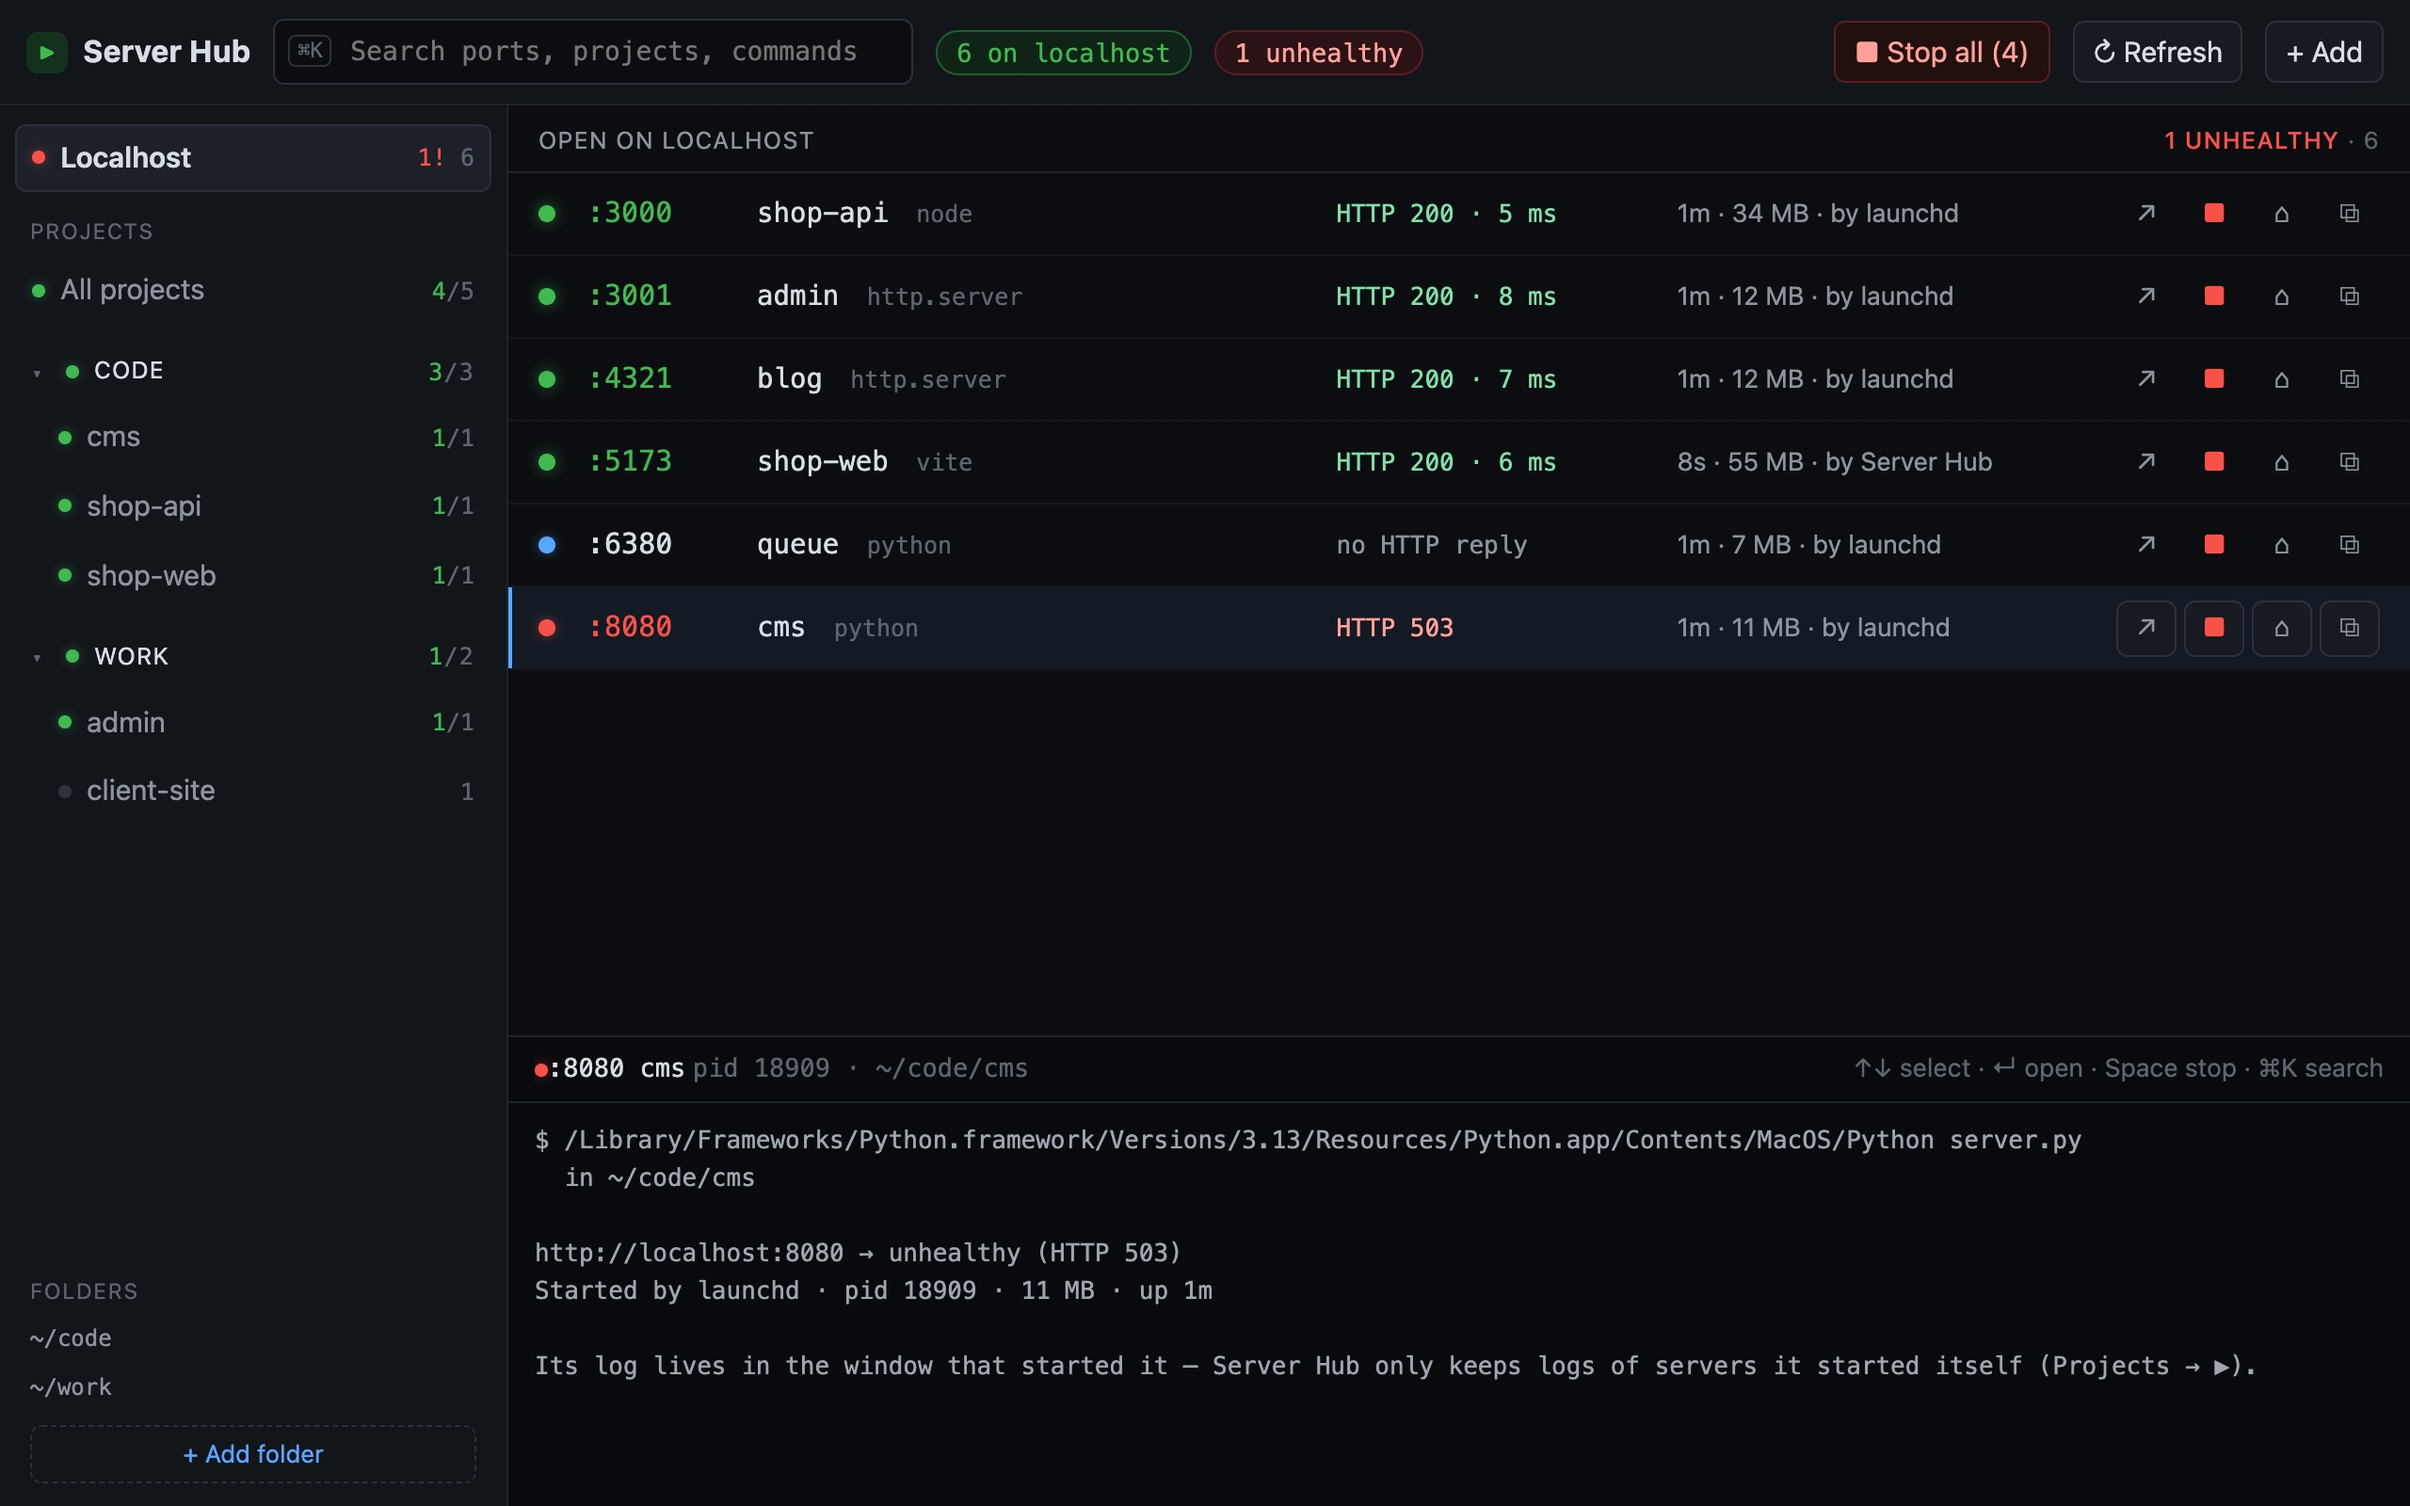
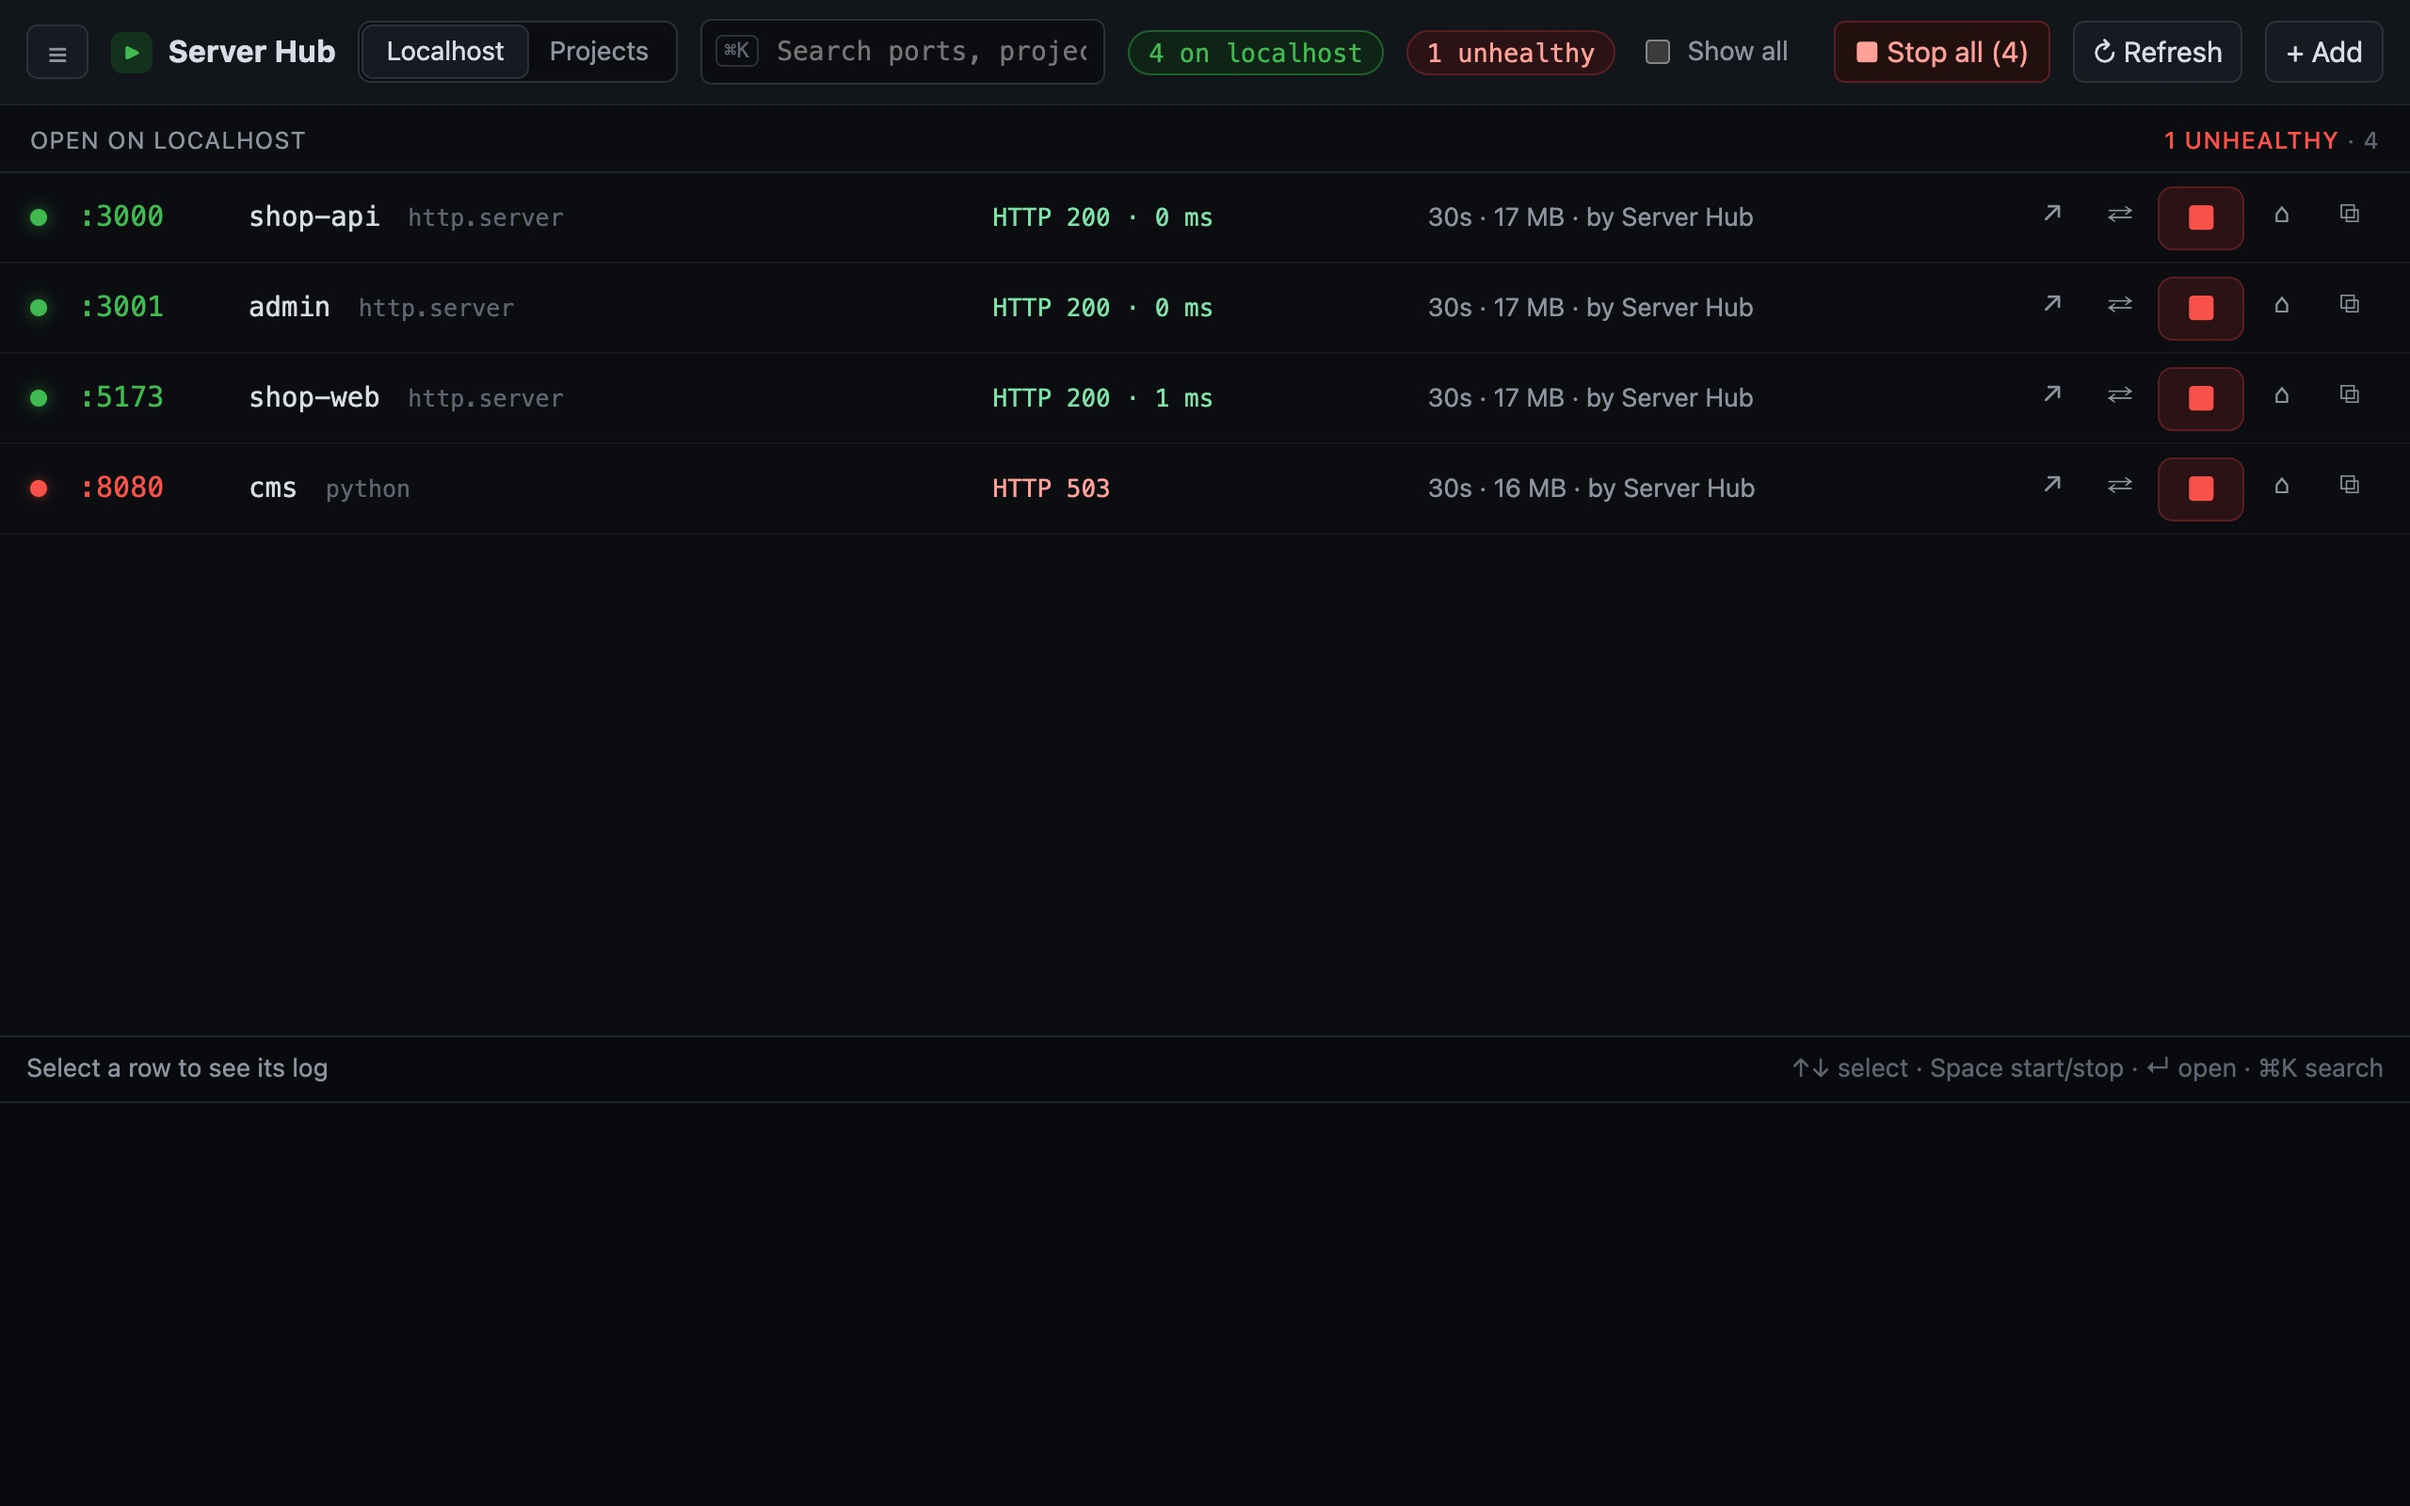
Server Hub 0.2.1: sidebar closed by default, bigger start/stop, 0.1.2 fixes back, new screenshots

diff --git a/src/styles.css b/src/styles.css
@@ -19,10 +19,10 @@ input:focus { border-color: var(--blue); }
 
 .app { display: grid; grid-template: "top top" 56px "side main" 1fr "side log" 250px / 270px 1fr; height: 100vh; }
 .top { grid-area: top; display: flex; align-items: center; gap: 12px; padding: 0 14px; border-bottom: 1px solid var(--line); background: var(--panel); -webkit-app-region: drag; }
-.top > * { -webkit-app-region: no-drag; }
+.top > * { -webkit-app-region: no-drag; flex: none; white-space: nowrap; }
 .brand { font-size: 16px; display: flex; align-items: center; gap: 8px; letter-spacing: .2px; }
 .logo { display: grid; place-items: center; width: 22px; height: 22px; border-radius: 6px; background: #13311c; color: var(--green); font-size: 11px; }
-.search { position: relative; width: 340px; }
+.search { position: relative; flex: 0 1 340px; min-width: 150px; }
 .search input { width: 100%; padding-left: 40px; font-family: var(--mono); font-size: 14px; }
 .search .k { position: absolute; left: 8px; top: 50%; transform: translateY(-50%); font: 11px var(--mono); color: var(--faint); border: 1px solid var(--line2); border-radius: 4px; padding: 1px 4px; }
 .pill { font: 13.5px var(--mono); padding: 3px 10px; border-radius: 99px; background: var(--panel2); border: 1px solid var(--line2); color: var(--dim); }
@@ -45,7 +45,7 @@ input:focus { border-color: var(--blue); }
 
 .main { grid-area: main; overflow: auto; }
 .gh { position: sticky; top: 0; z-index: 1; display: flex; justify-content: space-between; padding: 10px 16px 7px; font-size: 12.5px; text-transform: uppercase; letter-spacing: .7px; color: var(--dim); background: var(--bg); border-bottom: 1px solid var(--line); }
-.row { display: grid; grid-template-columns: 14px minmax(220px, 1.3fr) minmax(100px, 1.5fr) 90px minmax(150px, 1fr) 186px; align-items: center; gap: 12px; padding: 0 16px; height: 44px; border-bottom: 1px solid #14181e; cursor: default; }
+.row { display: grid; grid-template-columns: 14px minmax(220px, 1.3fr) minmax(100px, 1.5fr) 90px minmax(150px, 1fr) 220px; align-items: center; gap: 12px; padding: 0 16px; height: 48px; border-bottom: 1px solid #14181e; cursor: default; }
 .row:hover { background: #10141a; }
 .row.sel { background: #131a24; box-shadow: inset 2px 0 var(--blue); }
 .nm { overflow: hidden; text-overflow: ellipsis; white-space: nowrap; font-size: 14.5px; }
@@ -58,8 +58,11 @@ input:focus { border-color: var(--blue); }
 .act { width: 32px; height: 30px; padding: 0; display: grid; place-items: center; font-size: 14px; background: transparent; border-color: transparent; color: var(--dim); }
 .row:hover .act, .row.sel .act { border-color: var(--line2); background: var(--panel2); }
 .act.ghost { visibility: hidden; }
-.act.play { color: var(--green); }
-.act.stop { color: var(--red); }
+.act.play, .act.stop { width: 46px; height: 34px; font-size: 18px; border-radius: 8px; }
+.act.play, .row:hover .act.play, .row.sel .act.play { color: var(--green); background: #0f2416; border-color: #1f5f2c; }
+.act.stop, .row:hover .act.stop, .row.sel .act.stop { color: var(--red); background: #2b1215; border-color: #5a1e22; }
+.act.play:hover { background: #163a22; border-color: var(--green); }
+.act.stop:hover { background: #3a1418; border-color: var(--red); }
 .act.lan { color: var(--dim); font-size: 15px; }
 .act.lan.on { color: var(--blue); border-color: #1f3d5f !important; background: #0f1a26 !important; }
 .act.armed { width: auto; padding: 0 8px; background: #3a1418 !important; border-color: var(--red) !important; color: #ffb3ad; font-size: 13px; }
@@ -116,7 +119,7 @@ button.solid-danger { background: #b62324; border-color: var(--red); color: #fff
 .sa-out { display: flex; gap: 8px; align-items: center; font-size: 14px; color: var(--dim); margin-top: 4px; cursor: pointer; }
 
 /* localhost view */
-.prow { grid-template-columns: 14px 78px minmax(200px, 1.4fr) minmax(130px, .8fr) minmax(150px, 1fr) 186px; }
+.prow { grid-template-columns: 14px 78px minmax(200px, 1.4fr) minmax(130px, .8fr) minmax(150px, 1fr) 220px; }
 .port.big { color: var(--text); font-size: 15px; font-weight: 500; }
 .h-healthy .port.big { color: var(--green); }
 .h-unhealthy .port.big { color: var(--red); }
@@ -145,3 +148,9 @@ button.solid-danger { background: #b62324; border-color: var(--red); color: #fff
 .addroot { margin: 6px 8px 2px; width: calc(100% - 16px); font-size: 13px; color: var(--blue); background: none; border: 1px dashed var(--line2); }
 .addroot:hover { background: var(--panel2); border-color: var(--blue); }
 .rx.armed { visibility: visible; color: #ffb3ad; font-size: 12px; background: #3a1418; border-radius: 4px; }
+.app.noside { grid-template-columns: 0 1fr; }
+.app.noside .side { display: none; }
+.icon { padding: 3px 9px; font-size: 15px; color: var(--dim); }
+.tabs { display: flex; background: var(--bg); border: 1px solid var(--line2); border-radius: 7px; padding: 2px; }
+.tabs button { background: none; border: 0; padding: 3px 12px; border-radius: 5px; color: var(--dim); font-size: 14px; }
+.tabs button.sel { background: var(--panel2); color: var(--text); box-shadow: 0 0 0 1px var(--line2); }

diff --git a/src/main.ts b/src/main.ts
@@ -20,6 +20,9 @@ const collapsed = new Set<string>(JSON.parse(store.get('hub.collapsed') || '[]')
 view = store.get('hub.view') || LOCAL;
 if (view === '__outside__') view = LOCAL;
 function setView(v: string) { view = v; store.set('hub.view', v); }
+// Sidebar starts closed; the Localhost / Projects tabs in the top bar are enough to move around.
+function setSide(open: boolean) { $('app').classList.toggle('noside', !open); store.set('hub.side', open ? '1' : '0'); }
+setSide(store.get('hub.side') === '1');
 const inView = (r: Row) =>
   view === 'all' || view === `g:${r.group}` || view === `r:${r.repo}` || view === `p:${r.repo}${SEP}${r.project}`;
 const isOn = (r: Row) => r.status === 'running' || r.status === 'starting';
@@ -109,6 +112,7 @@ function renderSide() {
 // Folders that get scanned for projects: add as many as you like, × to drop one.
 function folders() {
   const list = snap.roots.filter((r) => r.exists || snap.roots.length > 1 || snap.entries.length);
+  if (!list.length) return ''; // first run: the "Add projects folder…" button above is enough
   return `<div class="roots"><div class="sh">Folders</div>${list
     .map((r) => `<div class="rt mono ${r.exists ? '' : 'gone'}" title="${esc(r.path)}${r.exists ? '' : ' (not found)'}"><span class="rp">&lrm;${esc(r.path)}&lrm;</span><button class="rx ${armed === 'root:' + r.path ? 'armed' : ''}" data-unroot="${esc(r.path)}" title="Stop scanning this folder (nothing is deleted)">${armed === 'root:' + r.path ? 'remove?' : '×'}</button></div>`)
     .join('')}<button class="addroot" data-root="add" title="Scan another folder for projects">+ Add folder</button></div>`;
@@ -154,8 +158,9 @@ function rowHtml(r: Row) {
   const port = r.ports.length ? r.ports.map((p) => `:${p}`).join(' ') : r.port ? `:${r.port}` : r.kind === 'run.sh' ? 'game' : '';
   const meta = r.status === 'running' || r.status === 'starting' ? [lanTag(r.ports[0]), ago(r.secs), r.mb != null ? `${r.mb} MB` : '', r.own ? '' : r.source ? `by ${r.source}` : ''].filter(Boolean).join(' · ') : '';
   const warn = r.note ? `<span class="chip ${r.status === 'error' ? 'red' : 'red'}" title="${esc(r.note)}">${esc(r.note)}</span>` : r.sharedPort.length && r.status !== 'running' ? `<span class="chip amber" title="Same port as ${esc(r.sharedPort.join(', '))}">shares :${r.port}</span>` : '';
+  const sick = r.status === 'running' && r.health === 'unhealthy';
   return `<div class="row ${selected === r.id ? 'sel' : ''} st-${r.status}" data-row="${r.id}">
-    <span class="dot ${r.status}" title="${r.status}"></span>
+    <span class="dot ${sick ? 'unhealthy' : r.status}" title="${sick ? 'running, but unhealthy (5xx or no answer)' : r.status}"></span>
     <span class="nm mono">${esc(r.name)}</span>
     <span class="cmd mono" title="${esc(r.cwd)}\n${esc(r.command)}">${esc(r.command)}</span>
     <span class="port mono">${esc(port)}</span>
@@ -226,6 +231,8 @@ function render() {
   $('bad').textContent = snap.unhealthy ? `${snap.unhealthy} unhealthy` : '';
   $('bad').style.display = snap.unhealthy ? '' : 'none';
   $<HTMLInputElement>('showAll').checked = showAll;
+  $('tLocal').classList.toggle('sel', view === LOCAL);
+  $('tProj').classList.toggle('sel', view !== LOCAL);
   $('rescan').title = view === LOCAL ? 'Check every port again' : 'Scan the projects folder again';
   const n = stopTargets().length;
   $<HTMLButtonElement>('stopAll').disabled = n === 0;
@@ -389,6 +396,11 @@ document.addEventListener('keydown', (ev) => {
     $<HTMLInputElement>('q').select();
     return;
   }
+  if ((ev.metaKey || ev.ctrlKey) && ev.key.toLowerCase() === 'b') {
+    ev.preventDefault();
+    setSide($('app').classList.contains('noside'));
+    return;
+  }
   if (ev.key === 'Escape') {
     if ($('addOv').classList.contains('show')) return closeAdd();
     if ($('saOv').classList.contains('show')) return closeStopAll();
@@ -419,6 +431,7 @@ document.addEventListener('keydown', (ev) => {
 });
 
 $('q').addEventListener('input', () => renderList());
+$('sideBtn').addEventListener('click', () => setSide($('app').classList.contains('noside')));
 $('showAll').addEventListener('change', () => {
   showAll = $<HTMLInputElement>('showAll').checked;
   store.set('hub.showAll', showAll ? '1' : '0');

diff --git a/index.html b/index.html
@@ -6,9 +6,11 @@
   <title>Server Hub</title>
 </head>
 <body>
-<div class="app">
+<div class="app noside" id="app">
   <header class="top" data-tauri-drag-region>
+    <button id="sideBtn" class="icon" title="Show / hide sidebar (⌘B)">☰</button>
     <b class="brand" data-tauri-drag-region><span class="logo" data-tauri-drag-region>▶</span>Server Hub</b>
+    <div class="tabs"><button id="tLocal" data-view="__localhost__">Localhost</button><button id="tProj" data-view="all">Projects</button></div>
     <div class="search"><span class="k">⌘K</span><input id="q" placeholder="Search ports, projects, commands" spellcheck="false"></div>
     <span class="pill" id="pill">0 on localhost</span>
     <span class="pill bad" id="bad" style="display:none"></span>

diff --git a/core/src/scan.rs b/core/src/scan.rs
@@ -308,6 +308,10 @@ fn label(e: &mut Entry, root: &Path) {
         .map(|c| c.as_os_str().to_string_lossy().to_string())
         .or_else(|| root.file_name().map(|n| n.to_string_lossy().to_string()))
         .unwrap_or_else(|| "Other".into());
+    // projects sitting straight in the folder (~/code/shop-api) group under the folder itself, not one group each
+    if e.group == e.repo {
+        e.group = root.file_name().map(|n| n.to_string_lossy().to_string()).unwrap_or_else(|| "Other".into());
+    }
     let rr = file.parent().and_then(|d| git_root(d, root));
     e.project = project_of(e, rr.as_deref());
 }
@@ -404,7 +408,8 @@ mod tests {
         assert_eq!(es[0].port, Some(1999));
         assert_eq!(es[1].program, None);
         assert_eq!(es[2].args, vec!["play"]);
-        assert!(es.iter().all(|e| e.group == "Repo"));
+        let top = t.path().file_name().unwrap().to_string_lossy().to_string();
+        assert!(es.iter().all(|e| e.group == top), "a repo right in the root groups under the root's name");
         assert_eq!(es[0].project, "foo", "apps/ACTIVE/<slug> in --prefix");
         assert_eq!(es[2].project, "dino");
         assert_eq!(es[1].project, "Repo", "attach-only row falls back to the repo");

diff --git a/CHANGELOG.md b/CHANGELOG.md
@@ -1,5 +1,13 @@
 # Changelog
 
+## 0.2.1
+
+- **Sidebar starts closed.** More room for the list; open it with ☰ or ⌘B. New **Localhost / Projects** tabs in the top bar.
+- **Bigger ▶ / ■ buttons**, always visible, green to start and red to stop.
+- Back from 0.1.2: projects sitting straight in a folder group under that folder (e.g. **CODE**), and a running project
+  that answers HTTP 5xx gets a red dot in the Projects list.
+- The top bar no longer wraps on narrower windows.
+
 ## 0.2.0
 
 - **Running servers only by default.** The project list and the sidebar show just what is running; tick **Show all**
